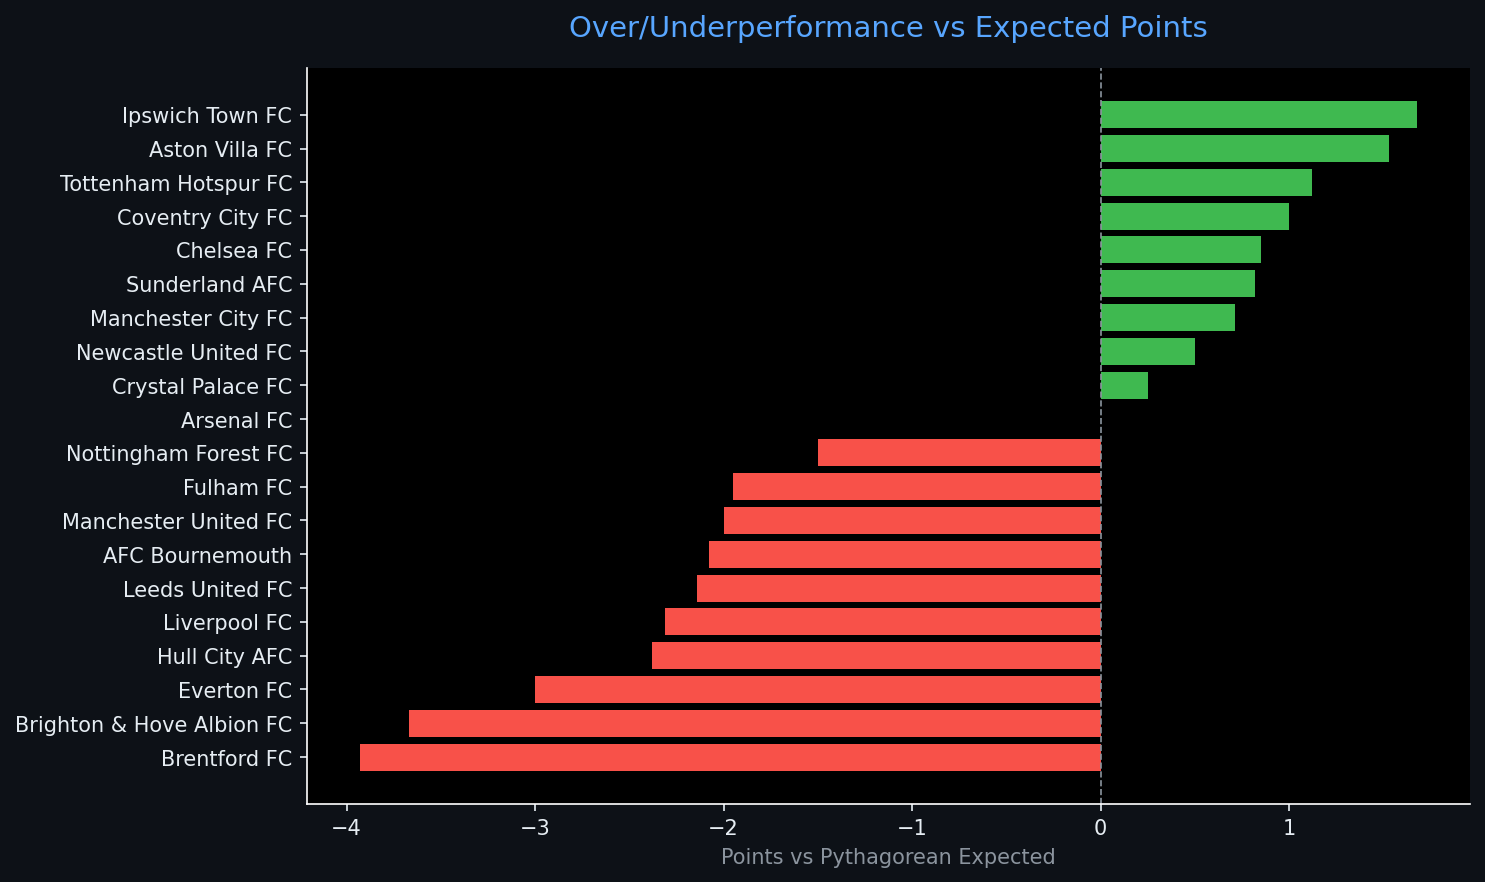
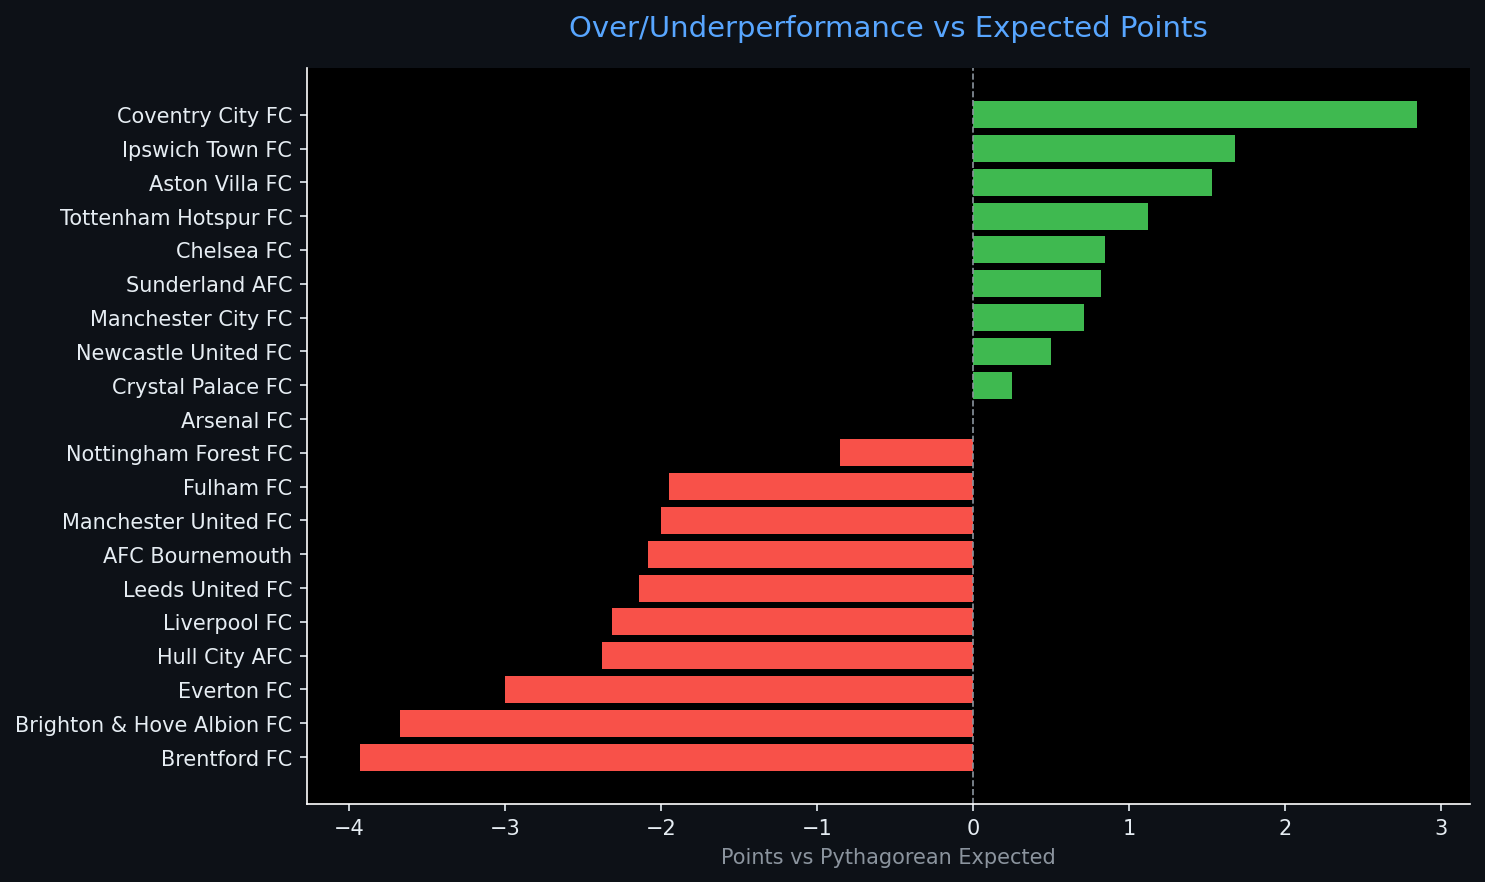
Automated ETL data update: 2026-09-19 19:51

diff --git a/reports/pipeline_report.html b/reports/pipeline_report.html
@@ -4,7 +4,7 @@
 <head>
     <meta charset="UTF-8">
     <meta name="viewport" content="width=device-width, initial-scale=1.0">
-    <title>Sports Data Pipeline Report — 2026-09-19 16:57</title>
+    <title>Sports Data Pipeline Report — 2026-09-19 19:51</title>
     <style>
         body { font-family: 'Segoe UI', sans-serif; background: #0d1117; color: #e6edf3; margin: 0; padding: 2rem; }
         h1   { color: #58a6ff; border-bottom: 1px solid #30363d; padding-bottom: 0.5rem; }
@@ -20,7 +20,7 @@
 </head>
 <body>
     <h1>⚽ Sports Data Pipeline — Automated Report</h1>
-    <p class="meta">Generated: 2026-09-19 16:57 UTC &nbsp;|&nbsp; Sport: <strong>football</strong> &nbsp;|&nbsp; Rows: <strong>20</strong></p>
+    <p class="meta">Generated: 2026-09-19 19:51 UTC &nbsp;|&nbsp; Sport: <strong>football</strong> &nbsp;|&nbsp; Rows: <strong>20</strong></p>
     <span class="badge">Pipeline v1.0.0</span>
     <h2>📊 Data Table</h2>
     <table class="dataframe data-table">
@@ -194,21 +194,6 @@
     </tr>
     <tr>
       <td>11</td>
-      <td>Nottingham Forest FC</td>
-      <td>5</td>
-      <td>6</td>
-      <td>1</td>
-      <td>3</td>
-      <td>1</td>
-      <td>4</td>
-      <td>4</td>
-      <td>0.200</td>
-      <td>1.200</td>
-      <td>0.500</td>
-      <td>NaN</td>
-    </tr>
-    <tr>
-      <td>12</td>
       <td>Ipswich Town FC</td>
       <td>5</td>
       <td>6</td>
@@ -220,6 +205,21 @@
       <td>0.400</td>
       <td>1.200</td>
       <td>0.288</td>
+      <td>NaN</td>
+    </tr>
+    <tr>
+      <td>12</td>
+      <td>Nottingham Forest FC</td>
+      <td>5</td>
+      <td>5</td>
+      <td>1</td>
+      <td>2</td>
+      <td>2</td>
+      <td>4</td>
+      <td>5</td>
+      <td>0.200</td>
+      <td>1.000</td>
+      <td>0.390</td>
       <td>NaN</td>
     </tr>
     <tr>
@@ -299,6 +299,21 @@
     </tr>
     <tr>
       <td>18</td>
+      <td>Coventry City FC</td>
+      <td>5</td>
+      <td>3</td>
+      <td>1</td>
+      <td>0</td>
+      <td>4</td>
+      <td>1</td>
+      <td>10</td>
+      <td>0.200</td>
+      <td>0.600</td>
+      <td>0.010</td>
+      <td>NaN</td>
+    </tr>
+    <tr>
+      <td>19</td>
       <td>Tottenham Hotspur FC</td>
       <td>5</td>
       <td>2</td>
@@ -313,7 +328,7 @@
       <td>NaN</td>
     </tr>
     <tr>
-      <td>19</td>
+      <td>20</td>
       <td>Fulham FC</td>
       <td>4</td>
       <td>1</td>
@@ -325,21 +340,6 @@
       <td>0.000</td>
       <td>0.250</td>
       <td>0.246</td>
-      <td>NaN</td>
-    </tr>
-    <tr>
-      <td>20</td>
-      <td>Coventry City FC</td>
-      <td>5</td>
-      <td>1</td>
-      <td>0</td>
-      <td>1</td>
-      <td>4</td>
-      <td>0</td>
-      <td>10</td>
-      <td>0.000</td>
-      <td>0.200</td>
-      <td>0.000</td>
       <td>NaN</td>
     </tr>
   </tbody>
@@ -362,7 +362,7 @@
         
         <tr><td>Null Values</td><td>89</td></tr>
         
-        <tr><td>Run Timestamp (UTC)</td><td>2026-09-19T16:57:51.191057</td></tr>
+        <tr><td>Run Timestamp (UTC)</td><td>2026-09-19T19:51:50.983670</td></tr>
         
         <tr><td>ML Features Ready</td><td>False</td></tr>
         
